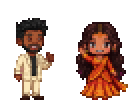
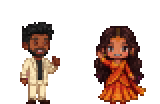
Altar: all five clergy on the step, bishop's blessing, couple up close, parents to the front pew; dance: 5 routines (line, wave, shuffle, twirl, couple lift/dip spotlight)
Claude-Session: https://claude.ai/code/session_013h4fEigmjtJ4DFo3Z3MyHJ

Changed region(s): [[0.5588, 0.21, 0.9412, 1.0], [0.0882, 0.18, 0.4118, 1.0], [0.2941, 0.96, 0.3235, 1.0]]

diff --git a/src/game/scenes/WeddingScene.js b/src/game/scenes/WeddingScene.js
@@ -11,7 +11,11 @@ var BG_W = 1143;          // church art scaled to the 500px game height
 var FLOOR = 492;
 var ALTAR_X = 900;        // the crucifix + baldachin
 var START_X = 110;
-var STOP_X = 838;         // where Marissa ends up, facing Mark
+var STOP_X = 790;         // where the walk ends; she then steps up to Mark
+var BRIDE_X = ALTAR_X - 34, GROOM_X = ALTAR_X + 34;
+// clergy row under the cross, left to right ('clergy' strip frames)
+var CLERGY = [['FR-ALB', -134], ['FR-WHITE', -68], ['BISHOP', 0], ['FR-GREEN', 68], ['FR-BEARD', 134]];
+var STEP_Y = FLOOR - 48;  // the altar step the clergy stand on
 var BEAT = 60 / 88 * 1000; // one quarter note of the wedding march
 var CAST = { AARON: 0, AMMA: 1, APPA: 2, LUKE: 3, DADA: 4, MAMA: 5, RUTH: 6, MARK: 7, MARISSA: 8 };
 // family cheering from the front of the pews as she passes: [name, x, line]
@@ -36,9 +40,14 @@ export class WeddingScene extends Phaser.Scene {
     this.cameras.main.setBounds(0, 0, BG_W, 500);
     this.add.image(0, 0, 'bg-church').setOrigin(0).setDisplaySize(BG_W, 500);
 
-    // Mark + the priest waiting at the altar, under the cross
-    this.priest = this.add.image(ALTAR_X, FLOOR - 40, 'priest').setOrigin(0.5, 1).setScale(1.3).setDepth(3);
-    this.mark = this.cast('MARK', 958);
+    // Mark + all the clergy waiting at the altar, under the cross
+    this.clergy = {};
+    CLERGY.forEach(function(c, i) {
+      self.clergy[c[0]] = self.add.sprite(ALTAR_X + c[1], STEP_Y, 'clergy', i).setOrigin(0.5, 1).setScale(0.92).setDepth(3);
+    });
+    this.priest = this.clergy['FR-GREEN'];   // the celebrant
+    this.bishop = this.clergy.BISHOP;
+    this.mark = this.cast('MARK', GROOM_X + 30);
     this.mark.setFlipX(true);
 
     // family at the front of the pews
@@ -186,19 +195,39 @@ export class WeddingScene extends Phaser.Scene {
     // Amma & Appa give her away, then step aside
     this.say(this.appa, 'TAKE GOOD CARE OF HER!', 1600);
     this.time.delayedCall(1700, function() {
-      self.tweens.add({ targets: self.amma, x: STOP_X - 260, duration: 900 });
-      self.tweens.add({ targets: self.appa, x: STOP_X - 210, duration: 900 });
-      self.tweens.add({ targets: self.marissa, x: STOP_X + 4, duration: 600 });
-      self.tweens.add({ targets: self.mark, x: STOP_X + 112, duration: 600 });
+      // Amma & Appa take their seats in the front pew
+      self.tweens.add({ targets: self.amma, x: 668, y: FLOOR - 62, scale: 0.82, duration: 900, onComplete: function() { self.amma.setDepth(2); } });
+      self.tweens.add({ targets: self.appa, x: 708, y: FLOOR - 62, scale: 0.82, duration: 900, onComplete: function() { self.appa.setDepth(2); } });
+      self.tweens.add({ targets: self.marissa, x: BRIDE_X, duration: 700 });
+      self.tweens.add({ targets: self.mark, x: GROOM_X, duration: 700 });
     });
     var lines = [
       [this.priest, 'DO YOU, MARK, TAKE MARISSA TO BE YOUR WIFE?'],
       [this.mark, 'I DO!'],
       [this.priest, 'AND DO YOU, MARISSA, TAKE MARK TO BE YOUR HUSBAND?'],
       [this.marissa, 'I DO!'],
-      [this.priest, 'THE RINGS, PLEASE...'],
     ];
-    this.time.delayedCall(2800, function() { self.talk(lines, function() { self.startRing(); }); });
+    this.time.delayedCall(2800, function() { self.talk(lines, function() { self.blessing(); }); });
+  }
+
+  // the bishop steps forward and blesses them (hands over their heads)
+  blessing() {
+    var self = this;
+    var b = this.bishop;
+    this.tweens.add({ targets: b, y: FLOOR - 26, scale: 1, duration: 700, ease: 'Sine.easeInOut', onStart: function() { b.setDepth(4); } });
+    this.time.delayedCall(800, function() {
+      // they bow their heads
+      self.tweens.add({ targets: self.marissa, angle: 10, y: FLOOR + 3, duration: 400 });
+      self.tweens.add({ targets: self.mark, angle: -10, y: FLOOR + 3, duration: 400 });
+      self.time.addEvent({ delay: 120, repeat: 14, callback: function() {
+        spark(self, ALTAR_X + Phaser.Math.Between(-50, 50), FLOOR - 90 - Phaser.Math.Between(0, 30));
+      } });
+      self.talk([[b, 'MAY GOD BLESS YOUR MARRIAGE, ALWAYS.'], [self.priest, 'THE RINGS, PLEASE...']], function() {
+        self.tweens.add({ targets: [self.marissa, self.mark], angle: 0, y: FLOOR, duration: 300 });
+        self.tweens.add({ targets: b, y: STEP_Y, scale: 0.92, duration: 600, onComplete: function() { b.setDepth(3); } });
+        self.startRing();
+      });
+    });
   }
 
   talk(lines, done) {
@@ -275,7 +304,7 @@ export class WeddingScene extends Phaser.Scene {
     var bonus = this.tries === 1 ? 1000 : 500;
     this.score += bonus; gameState.coins += bonus;
     this.scoreText.setText('SCORE ' + this.score);
-    var ring = this.add.image(this.mark.x - 20, FLOOR - 56, 'ring').setDepth(70).setScale(1.4);
+    var ring = this.add.image(this.mark.x - 16, FLOOR - 56, 'ring').setDepth(70).setScale(1.4);
     this.tweens.add({ targets: ring, x: this.marissa.x + 14, y: FLOOR - 46, duration: 500, ease: 'Quad.easeOut',
       onComplete: function() {
         spark(self, ring.x, ring.y); burst(self, ring.x, ring.y, 0xffd84a, 16);
@@ -294,8 +323,8 @@ export class WeddingScene extends Phaser.Scene {
       self.talk([[self.priest, 'I NOW PRONOUNCE YOU HUSBAND AND WIFE!'], [self.priest, 'YOU MAY NOW KISS THE BRIDE!']], function() {
         self.phase = 'done';
         // the kiss: lean in, big heart
-        self.tweens.add({ targets: self.marissa, x: self.marissa.x + 22, duration: 400, ease: 'Sine.easeInOut' });
-        self.tweens.add({ targets: self.mark, x: self.mark.x - 22, duration: 400, ease: 'Sine.easeInOut',
+        self.tweens.add({ targets: self.marissa, x: self.marissa.x + 12, duration: 400, ease: 'Sine.easeInOut' });
+        self.tweens.add({ targets: self.mark, x: self.mark.x - 12, duration: 400, ease: 'Sine.easeInOut',
           onComplete: function() {
             var heart = self.add.image((self.mark.x + self.marissa.x) / 2, FLOOR - 100, 'heart').setDepth(80).setScale(0.5);
             self.tweens.add({ targets: heart, scale: 3, y: FLOOR - 230, duration: 700, ease: 'Back.easeOut' });

diff --git a/src/game/scenes/AllClearScene.js b/src/game/scenes/AllClearScene.js
@@ -1,13 +1,13 @@
 import Phaser from 'phaser';
 import { playMusic, playSound } from '../audio';
-import { FONT, setPad, spark } from '../kit';
+import { FONT, setPad, spark, burst } from '../kit';
 import { gameState } from '../state';
 
 // THE END (final screen): the reception. Everyone does the same goofy synchronized
 // dance around the cake (Fantastic Mr. Fox style) while the couple says thank you.
 // The dance never stops; only the small PLAY AGAIN button leaves.
 var FLOOR = 462;
-// 'cast' strip: frame = pose * 9 + person; poses 0 stand, 1 arms up, 2 fist pump
+// 'cast' strip: frame = pose * 9 + person; poses 0 stand, 1 arms up, 2 fist pump, 3 twirl, 4 clap
 var CAST = { AARON: 0, AMMA: 1, APPA: 2, LUKE: 3, DADA: 4, MAMA: 5, RUTH: 6, MARK: 7, MARISSA: 8 };
 var LINEUP = [['LUKE', 50], ['DADA', 115], ['MAMA', 180], ['RUTH', 245], ['MARK', 318], ['MARISSA', 482], ['AARON', 555], ['AMMA', 620], ['APPA', 690]];
 var SPEECH = [
@@ -17,8 +17,9 @@ var SPEECH = [
   ['MARISSA', 'WE LOVE YOU ALL SO MUCH!'],
   ['MARK', "NOW... LET'S DANCE!"],
 ];
-// the dance: one pose per beat, and everyone turns around every 8 beats
+// the dance: five 16-beat routines on loop
 var STEPS = [0, 1, 0, 2, 0, 1, 2, 1];
+var ROUTINES = ['line', 'wave', 'shuffle', 'twirl', 'spotlight'];
 
 export class AllClearScene extends Phaser.Scene {
   constructor() { super('AllClear'); }
@@ -103,17 +104,21 @@ export class AllClearScene extends Phaser.Scene {
     this.dancing = true;
     playMusic('title');
     playSound('clear');
-    var names = Object.keys(this.people);
+    var names = LINEUP.map(function(p) { return p[0]; });
+    this.baseX = {};
+    LINEUP.forEach(function(p) { self.baseX[p[0]] = p[1]; });
+    // the couple's special moves, shown in front of the cake during the spotlight
+    this.couple = this.add.sprite(400, FLOOR + 4, 'couple', 0).setOrigin(0.5, 1).setDepth(8).setScale(1.25).setVisible(false);
     var beat = 0;
     this.time.addEvent({ delay: 360, loop: true, callback: function() {
-      var pose = STEPS[beat % 8];
-      var turn = Math.floor(beat / 8) % 2 === 1;
-      names.forEach(function(k, i) {
-        var s = self.people[k];
-        s.setFrame(pose * 9 + CAST[k]);
-        s.setFlipX((s.x > 400) !== turn);
-        self.tweens.add({ targets: s, y: FLOOR - (pose ? 12 : 4), duration: 150, yoyo: true, ease: 'Quad.easeOut', delay: i % 2 ? 20 : 0 });
-      });
+      var routine = ROUTINES[Math.floor(beat / 16) % ROUTINES.length];
+      var b = beat % 16;
+      if (b === 0) self.enterRoutine(routine);
+      names.forEach(function(k, i) { self.move(routine, k, i, b); });
+      if (routine === 'spotlight') {
+        self.couple.setFrame(Math.floor(b / 4) % 2);
+        if (b % 4 === 0) { burst(self, 400, FLOOR - 90, 0xffb3d9, 12); self.tweens.add({ targets: self.couple, y: FLOOR - 6, duration: 180, yoyo: true }); }
+      }
       beat++;
     } });
 
@@ -131,6 +136,45 @@ export class AllClearScene extends Phaser.Scene {
 
   }
 
+  enterRoutine(routine) {
+    var self = this;
+    var spot = routine === 'spotlight';
+    this.couple.setVisible(spot);
+    ['MARK', 'MARISSA'].forEach(function(k) { self.people[k].setVisible(!spot); });
+    Object.keys(this.people).forEach(function(k) { self.people[k].x = self.baseX[k]; });
+  }
+
+  move(routine, k, i, b) {
+    var s = this.people[k];
+    var me = CAST[k];
+    var pose, hop = 4, flip = s.x > 400;
+    if (routine === 'line') {
+      pose = STEPS[b % 8];
+      hop = pose ? 12 : 4;
+      if (b >= 8) flip = !flip;
+    } else if (routine === 'wave') {
+      // a ripple runs down the line and back
+      var at = b < 9 ? b : 16 - b;
+      pose = at === i ? 1 : 4;
+      hop = at === i ? 22 : 3;
+    } else if (routine === 'shuffle') {
+      // Mr. Fox shuffle: everyone slides together, 4 beats each way
+      pose = b % 2 ? 4 : 0;
+      var dir = Math.floor(b / 4) % 2 ? -1 : 1;
+      this.tweens.add({ targets: s, x: this.baseX[k] + dir * 18, duration: 300, ease: 'Sine.easeInOut' });
+      flip = dir < 0;
+    } else if (routine === 'twirl') {
+      pose = b % 4 === 3 ? 1 : 3;
+      flip = b % 2 === 0;
+      hop = 8;
+    } else {
+      pose = 4;
+      hop = 6;
+    }
+    s.setFrame(pose * 9 + me).setFlipX(flip);
+    this.tweens.add({ targets: s, y: FLOOR - hop, duration: 150, yoyo: true, ease: 'Quad.easeOut', delay: i % 2 ? 20 : 0 });
+  }
+
   // ── The thank-you card, after the speech ──
   endCard() {
     var self = this;
@@ -144,8 +188,8 @@ export class AllClearScene extends Phaser.Scene {
     setPad('hint', { text: 'THANK YOU FOR PLAYING!' });
     // small corner button: the dance keeps going until someone actually wants to replay
     this.time.delayedCall(4000, function() {
-      var again = self.add.text(12, 492, 'PLAY AGAIN', { fontFamily: FONT, fontSize: '7px', color: '#ffffff', backgroundColor: '#7a3a5a', padding: { x: 6, y: 5 } })
-        .setOrigin(0, 1).setDepth(19).setInteractive({ useHandCursor: true });
+      var again = self.add.text(12, 12, 'PLAY AGAIN', { fontFamily: FONT, fontSize: '7px', color: '#ffffff', backgroundColor: '#7a3a5a', padding: { x: 6, y: 5 } })
+        .setOrigin(0, 0).setDepth(19).setInteractive({ useHandCursor: true });
       again.on('pointerdown', function(p, x, y, e) { e.stopPropagation(); self.restart(); });
     });
   }

diff --git a/src/game/kit.js b/src/game/kit.js
@@ -19,7 +19,7 @@ var STRIPS = {
   wheel: [34, 34], carpet: [76, 20], puff: [18, 18], spark: [14, 14],
   'mark-poses': [70, 80], 'marissa-poses': [82, 80],
   'squirrel-run': [52, 36], 'raccoon-run': [44, 36], pigeon: [32, 24], lionbody: [36, 26],
-  'balloon-raccoon': [56, 80], 'balloon-boss': [56, 80], cast: [68, 100], hero: [68, 100],
+  'balloon-raccoon': [56, 80], 'balloon-boss': [56, 80], cast: [80, 104], hero: [80, 104], clergy: [68, 96], couple: [112, 100],
 };
 
 export function preloadPx(scene) {

diff --git a/tools/build_sprites.py b/tools/build_sprites.py
@@ -730,7 +730,7 @@ FAMILY = [
     dict(kind='lehenga', hairstyle='updo', hair=BLK, skin=SKIN_L, skin2=SKIN_L2, main=SAGE, main2=(150, 176, 122), flower='P'),
 ]
 
-# The cast (tools/gen_family.py output in art/family): 9 people x 3 poses [stand, arms-up dance, fist pump].
+# The cast (tools/gen_family.py output in art/family): 9 people x 5 poses [stand, arms-up, fist pump, twirl, clap].
 # Frame = pose * 9 + person. Each person is scaled once from their standing height so poses line up.
 FAM_DIR = os.path.join(ROOT, 'art', 'family')
 CAST = [('aaron', 40), ('amma', 37), ('appa', 41), ('luke', 40), ('dada', 40), ('mama', 37), ('ruth', 37), ('mark', 41), ('marissa', 39)]
@@ -765,14 +765,15 @@ def shrink(im, k):
             r, g, b, a = px[x, y]
             px[x, y] = (r, g, b, 255 if a > 110 else 0)
     return sm
-CFW, CFH = 34, 50
+CFW, CFH = 40, 52
 if all(os.path.exists(os.path.join(FAM_DIR, n + '.png')) for n, _ in CAST):
-    poses = [[], [], []]
+    SUFFIXES = ['', '-dance', '-pump', '-twirl', '-clap']
+    poses = [[] for _ in SUFFIXES]
     for n, h in CAST:
         stand = key_magenta(os.path.join(FAM_DIR, n + '.png'))
         bb = stand.getchannel('A').point(lambda a: 255 if a > 40 else 0).getbbox()
         k = h / (bb[3] - bb[1])
-        for pi, suf in enumerate(['', '-dance', '-pump']):
+        for pi, suf in enumerate(SUFFIXES):
             path = os.path.join(FAM_DIR, n + suf + '.png')
             if not os.path.exists(path): path = os.path.join(FAM_DIR, n + '-dance.png')
             f = shrink(key_magenta(path) if suf else stand, k)
@@ -781,7 +782,7 @@ if all(os.path.exists(os.path.join(FAM_DIR, n + '.png')) for n, _ in CAST):
             c = Image.new('RGBA', (CFW, CFH), (0, 0, 0, 0))
             c.paste(f, ((CFW - f.width) // 2, CFH - f.height))
             poses[pi].append(c)
-    strip_save(poses[0] + poses[1] + poses[2], 'cast')
+    strip_save(sum(poses, []), 'cast')
     heroes = []
     for n, h in (('hero-mark', 41), ('hero-marissa', 39)):
         im = key_magenta(os.path.join(FAM_DIR, n + '.png'))
@@ -791,6 +792,20 @@ if all(os.path.exists(os.path.join(FAM_DIR, n + '.png')) for n, _ in CAST):
         c.paste(f, ((CFW - f.width) // 2, CFH - f.height))
         heroes.append(c)
     strip_save(heroes, 'hero')
+    def fit(path, h, fw, fh):
+        im = key_magenta(path)
+        bb = im.getchannel('A').point(lambda a: 255 if a > 40 else 0).getbbox()
+        f = shrink(im, h / (bb[3] - bb[1]))
+        if f.width > fw or f.height > fh:
+            f.thumbnail((fw, fh), Image.NEAREST)
+        c = Image.new('RGBA', (fw, fh), (0, 0, 0, 0))
+        c.paste(f, ((fw - f.width) // 2, fh - f.height))
+        return c
+    # clergy row under the cross, left to right
+    strip_save([fit(os.path.join(FAM_DIR, 'clergy', n + '.png'), h, 34, 48) for n, h in
+                (('fr-alb', 40), ('fr-white', 40), ('bishop', 41), ('fr-green', 40), ('fr-beard', 40))], 'clergy')
+    # the couple's special dance moves (lift, dip)
+    strip_save([fit(os.path.join(FAM_DIR, n + '.png'), 44, 56, 50) for n in ('couple-lift', 'couple-dip')], 'couple')
     pr = key_magenta(os.path.join(FAM_DIR, 'priest.png'))
     bb = pr.getchannel('A').point(lambda a: 255 if a > 40 else 0).getbbox()
     save(shrink(pr, 40 / (bb[3] - bb[1])), 'priest')
